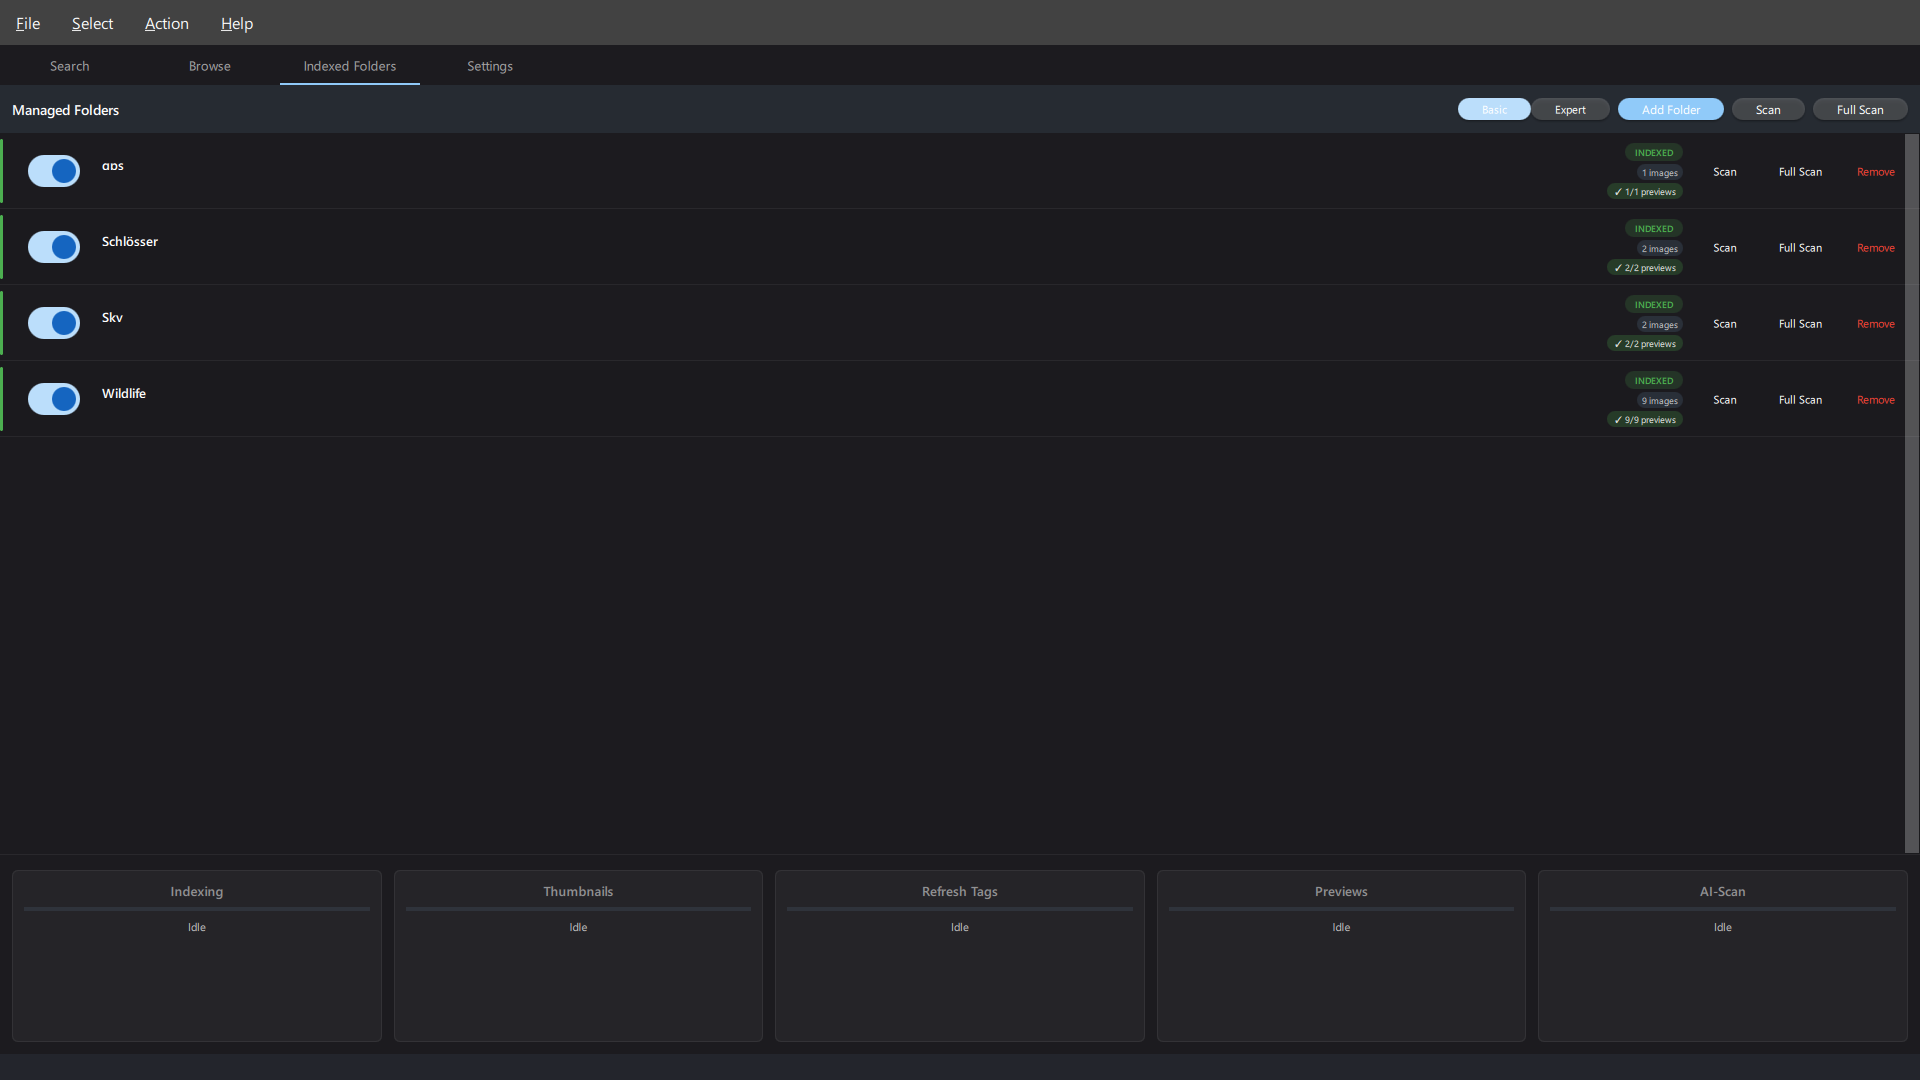
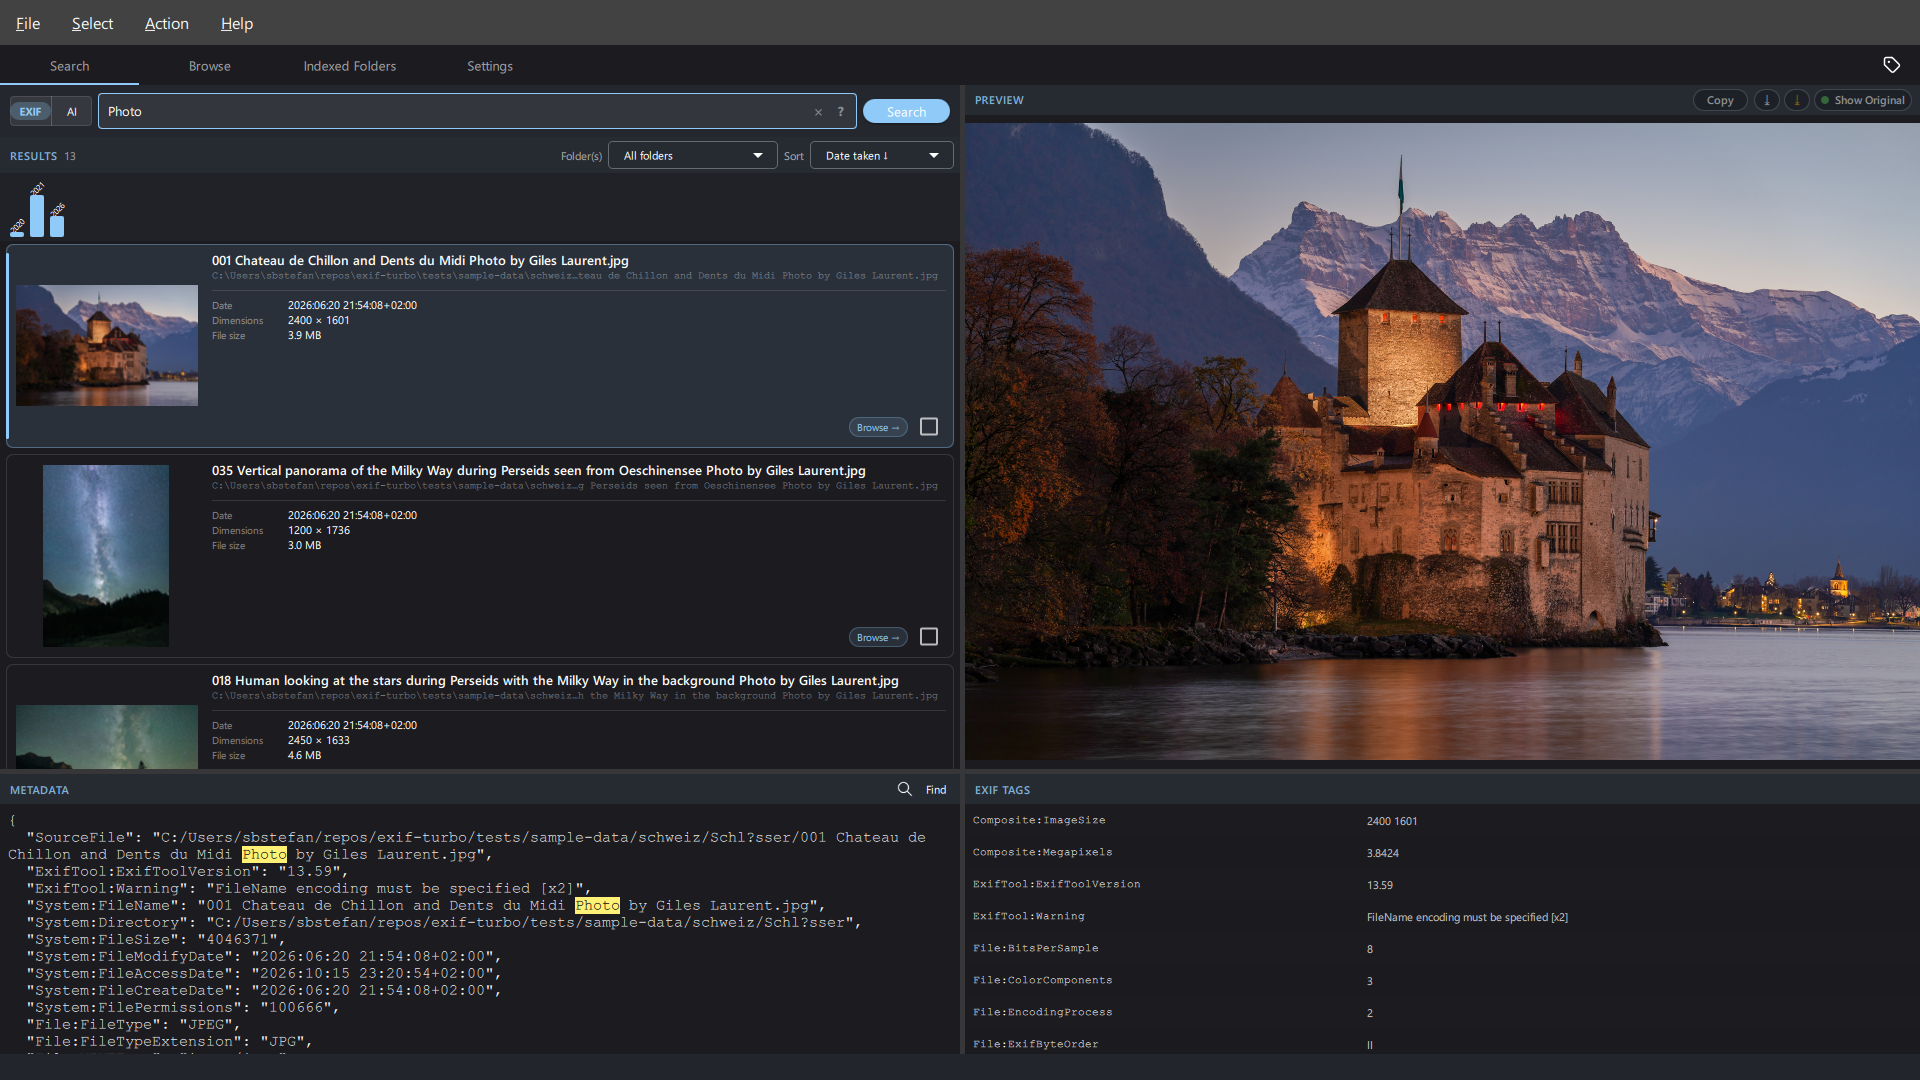
docs: show Search panel in README hero poster (#132)

diff --git a/scripts/create_demo_video.py b/scripts/create_demo_video.py
@@ -56,7 +56,7 @@ def build_demo() -> tuple[Path, Path]:
         check=True,
     )
     scenes = _load_scenes()
-    scenes[0].save(_POSTER, format="PNG", optimize=True)
+    scenes[_SCENES.index("demo_exif_results.png")].save(_POSTER, format="PNG", optimize=True)
 
     _OUTPUT.parent.mkdir(parents=True, exist_ok=True)
     container = av.open(str(_OUTPUT), mode="w", options={"movflags": "+faststart"})

diff --git a/docs/screenshots/README.md b/docs/screenshots/README.md
@@ -15,13 +15,15 @@ license](https://creativecommons.org/licenses/by-sa/4.0/):
 - `05_browse_tab.png`
 - `07_folder_filter.png`
 - `09_ai_search_mode.png`
+- `exif-turbo-demo-poster.png`
 - `exif-turbo-demo.mp4`
 
 The demo video combines the indexed-folders screen with generated tall-window
 captures of a broad EXIF search, AI search mode, and the Browse tab. The search
 and Browse captures and video contain Giles Laurent photographs and are
-distributed under CC BY-SA 4.0. The poster shows the indexed-folders screen,
-which contains no third-party photographs.
+distributed under CC BY-SA 4.0. The poster shows the EXIF Search panel with
+results, metadata, EXIF tags, and a photo preview. It contains scaled/cropped
+Giles Laurent photographs and is also distributed under CC BY-SA 4.0.
 
 `08_gps_location_bar.png` contains a scaled/cropped photograph by 1904.CC
 (Manuel Schmalstieg), available from

diff --git a/THIRD-PARTY-LICENSES.md b/THIRD-PARTY-LICENSES.md
@@ -169,6 +169,7 @@ Mandatory attribution per the license:
 | Used in | Description |
 |---------|-------------|
 | Documentation screenshots | Search (all / eagle / Milky Way), Browse, folder-filter, and AI-mode screenshot composites (`02`, `03`, `04`, `05`, `07`, and `09`) contain scaled/cropped Giles Laurent photographs and are distributed under CC BY-SA 4.0 |
+| README walkthrough | `exif-turbo-demo-poster.png` and `exif-turbo-demo.mp4` contain scaled/cropped Giles Laurent photographs and are distributed under CC BY-SA 4.0 |
 | `tests/sample-data/schweiz/` | 13 wildlife, landscape, and astrophotography test images |
 
 Full per-file attribution is listed in

diff --git a/README.md b/README.md
@@ -9,7 +9,7 @@ collections on Windows, macOS, and Linux.
 
 [![Watch the exif-turbo walkthrough: full-screen search, metadata, AI search, and Browse](docs/screenshots/exif-turbo-demo-poster.png)](docs/screenshots/exif-turbo-demo.mp4)
 
-*The demo includes photographs by © Giles Laurent, licensed CC BY-SA 4.0; see [screenshot attribution](docs/screenshots/README.md).*
+*The demo and poster include photographs by © Giles Laurent, licensed CC BY-SA 4.0; see [screenshot attribution](docs/screenshots/README.md).*
 
 ## What it does
 
